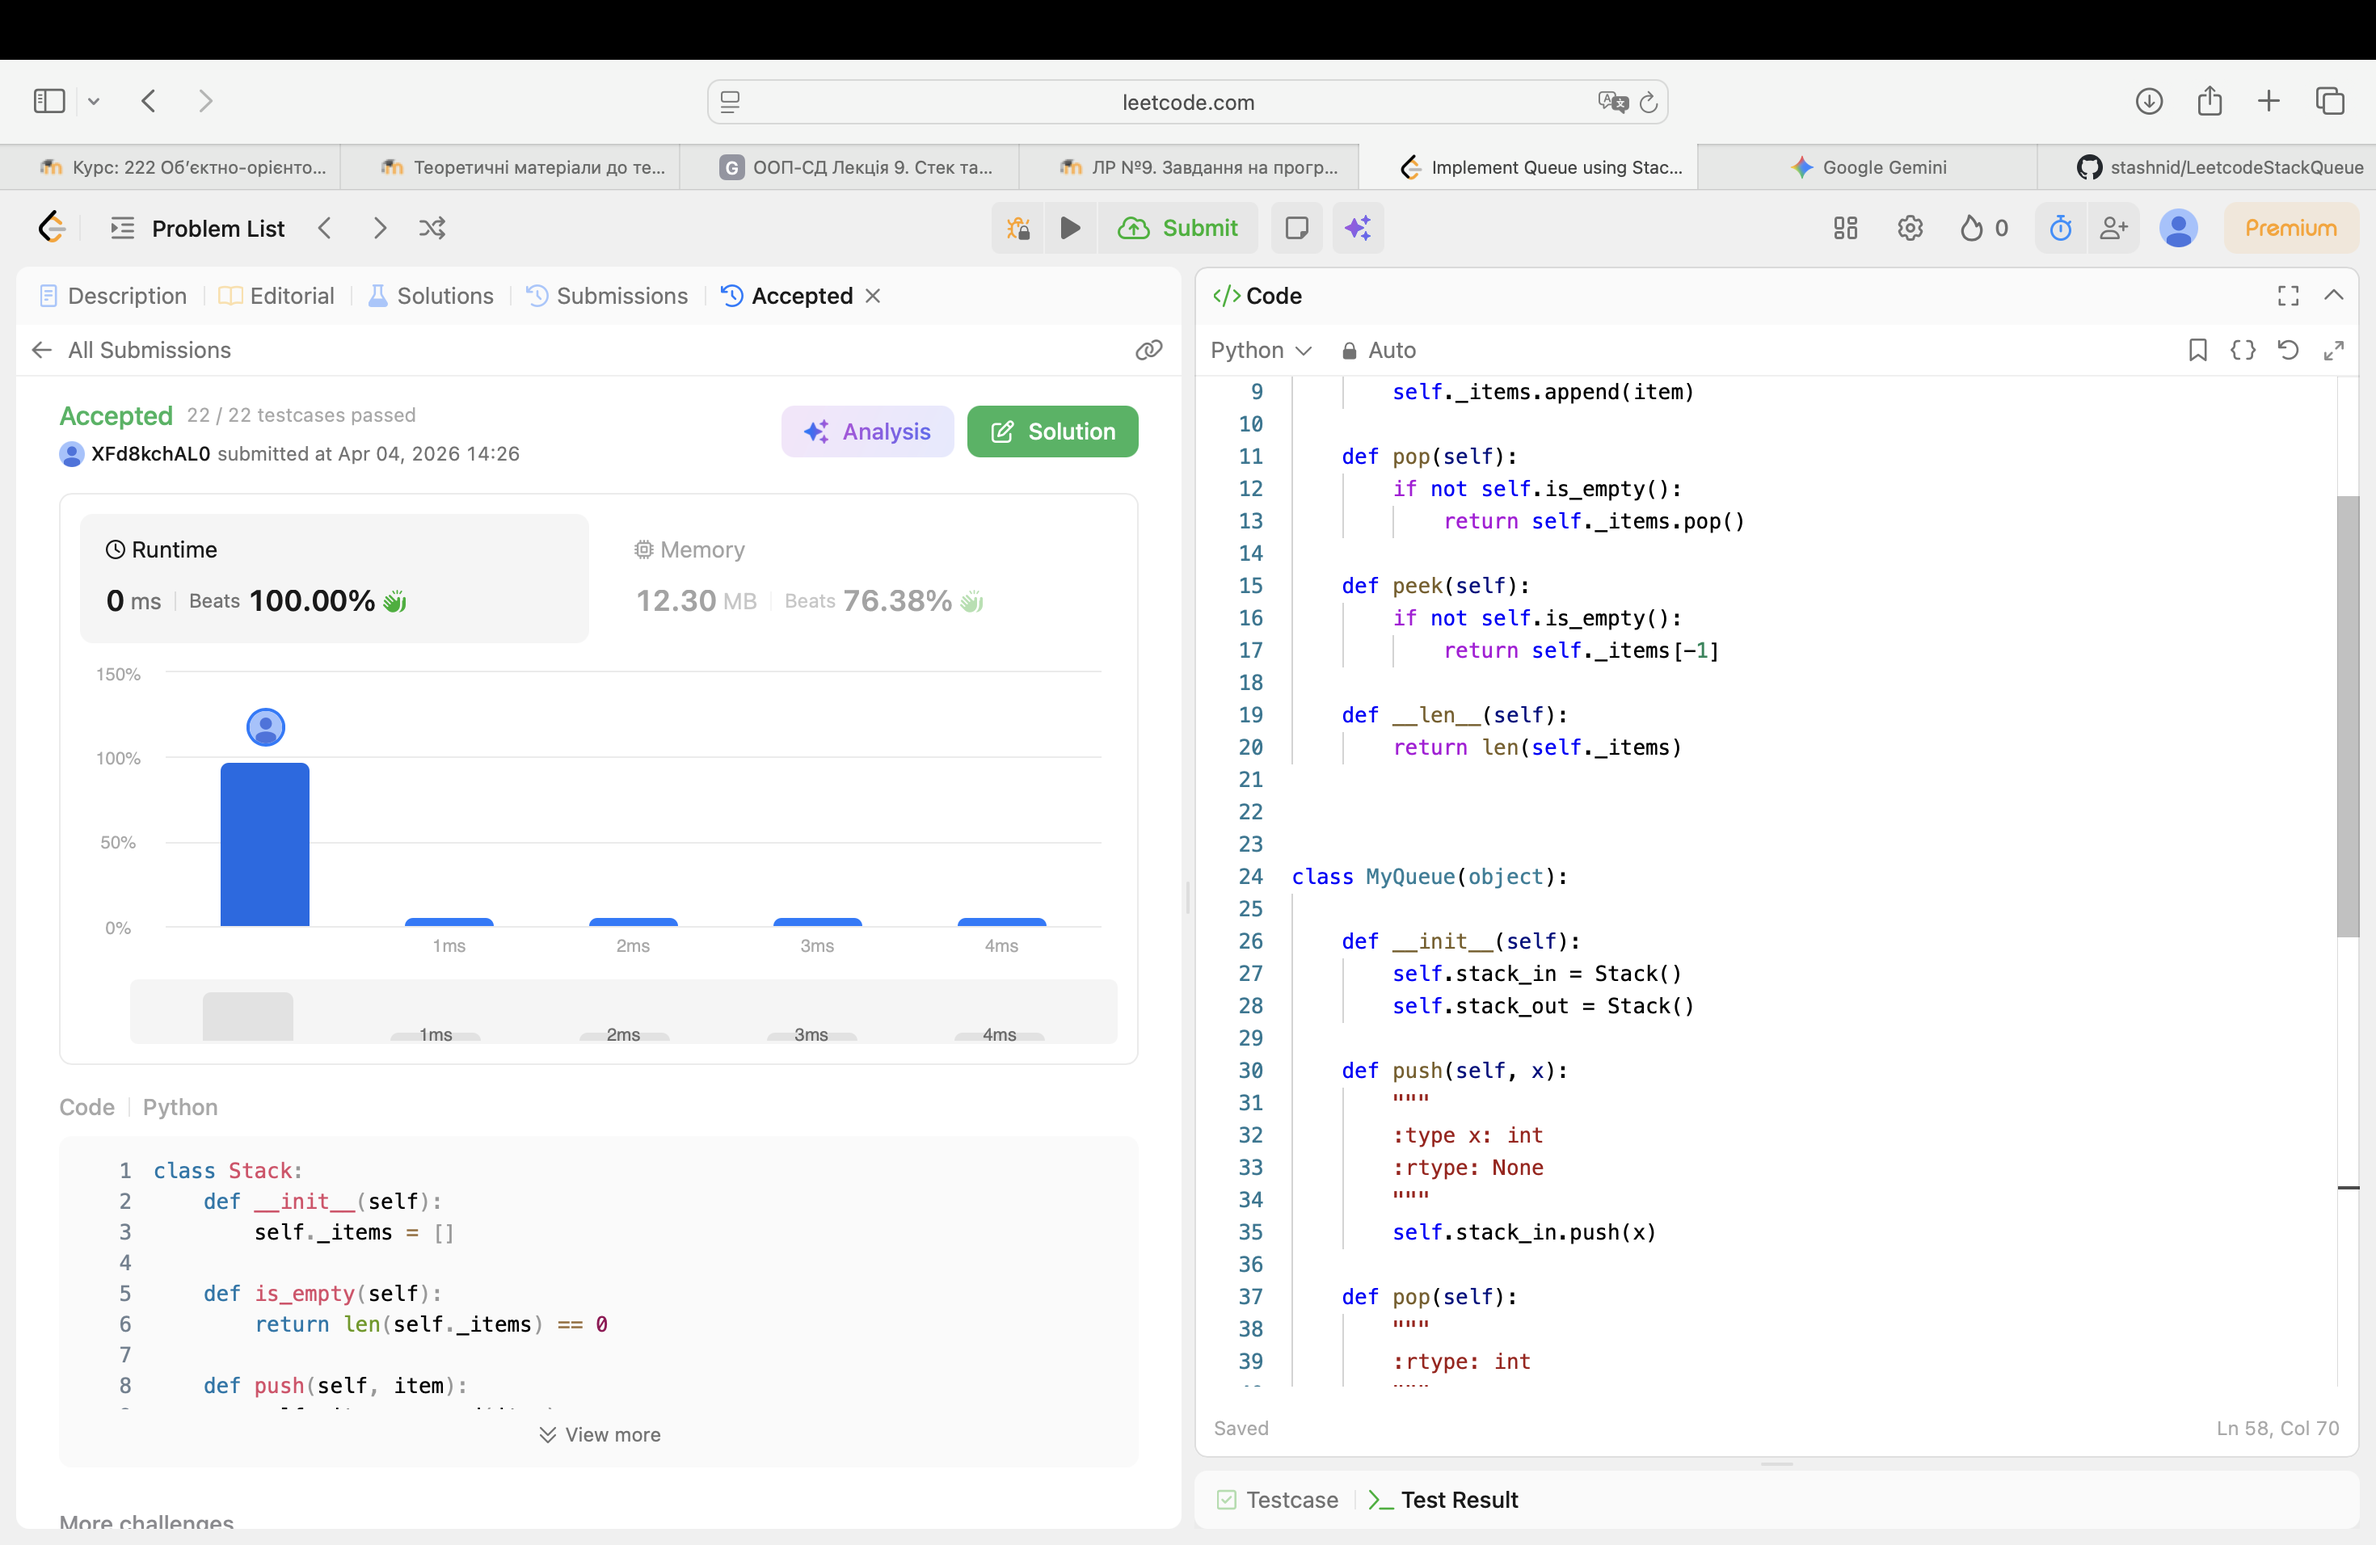
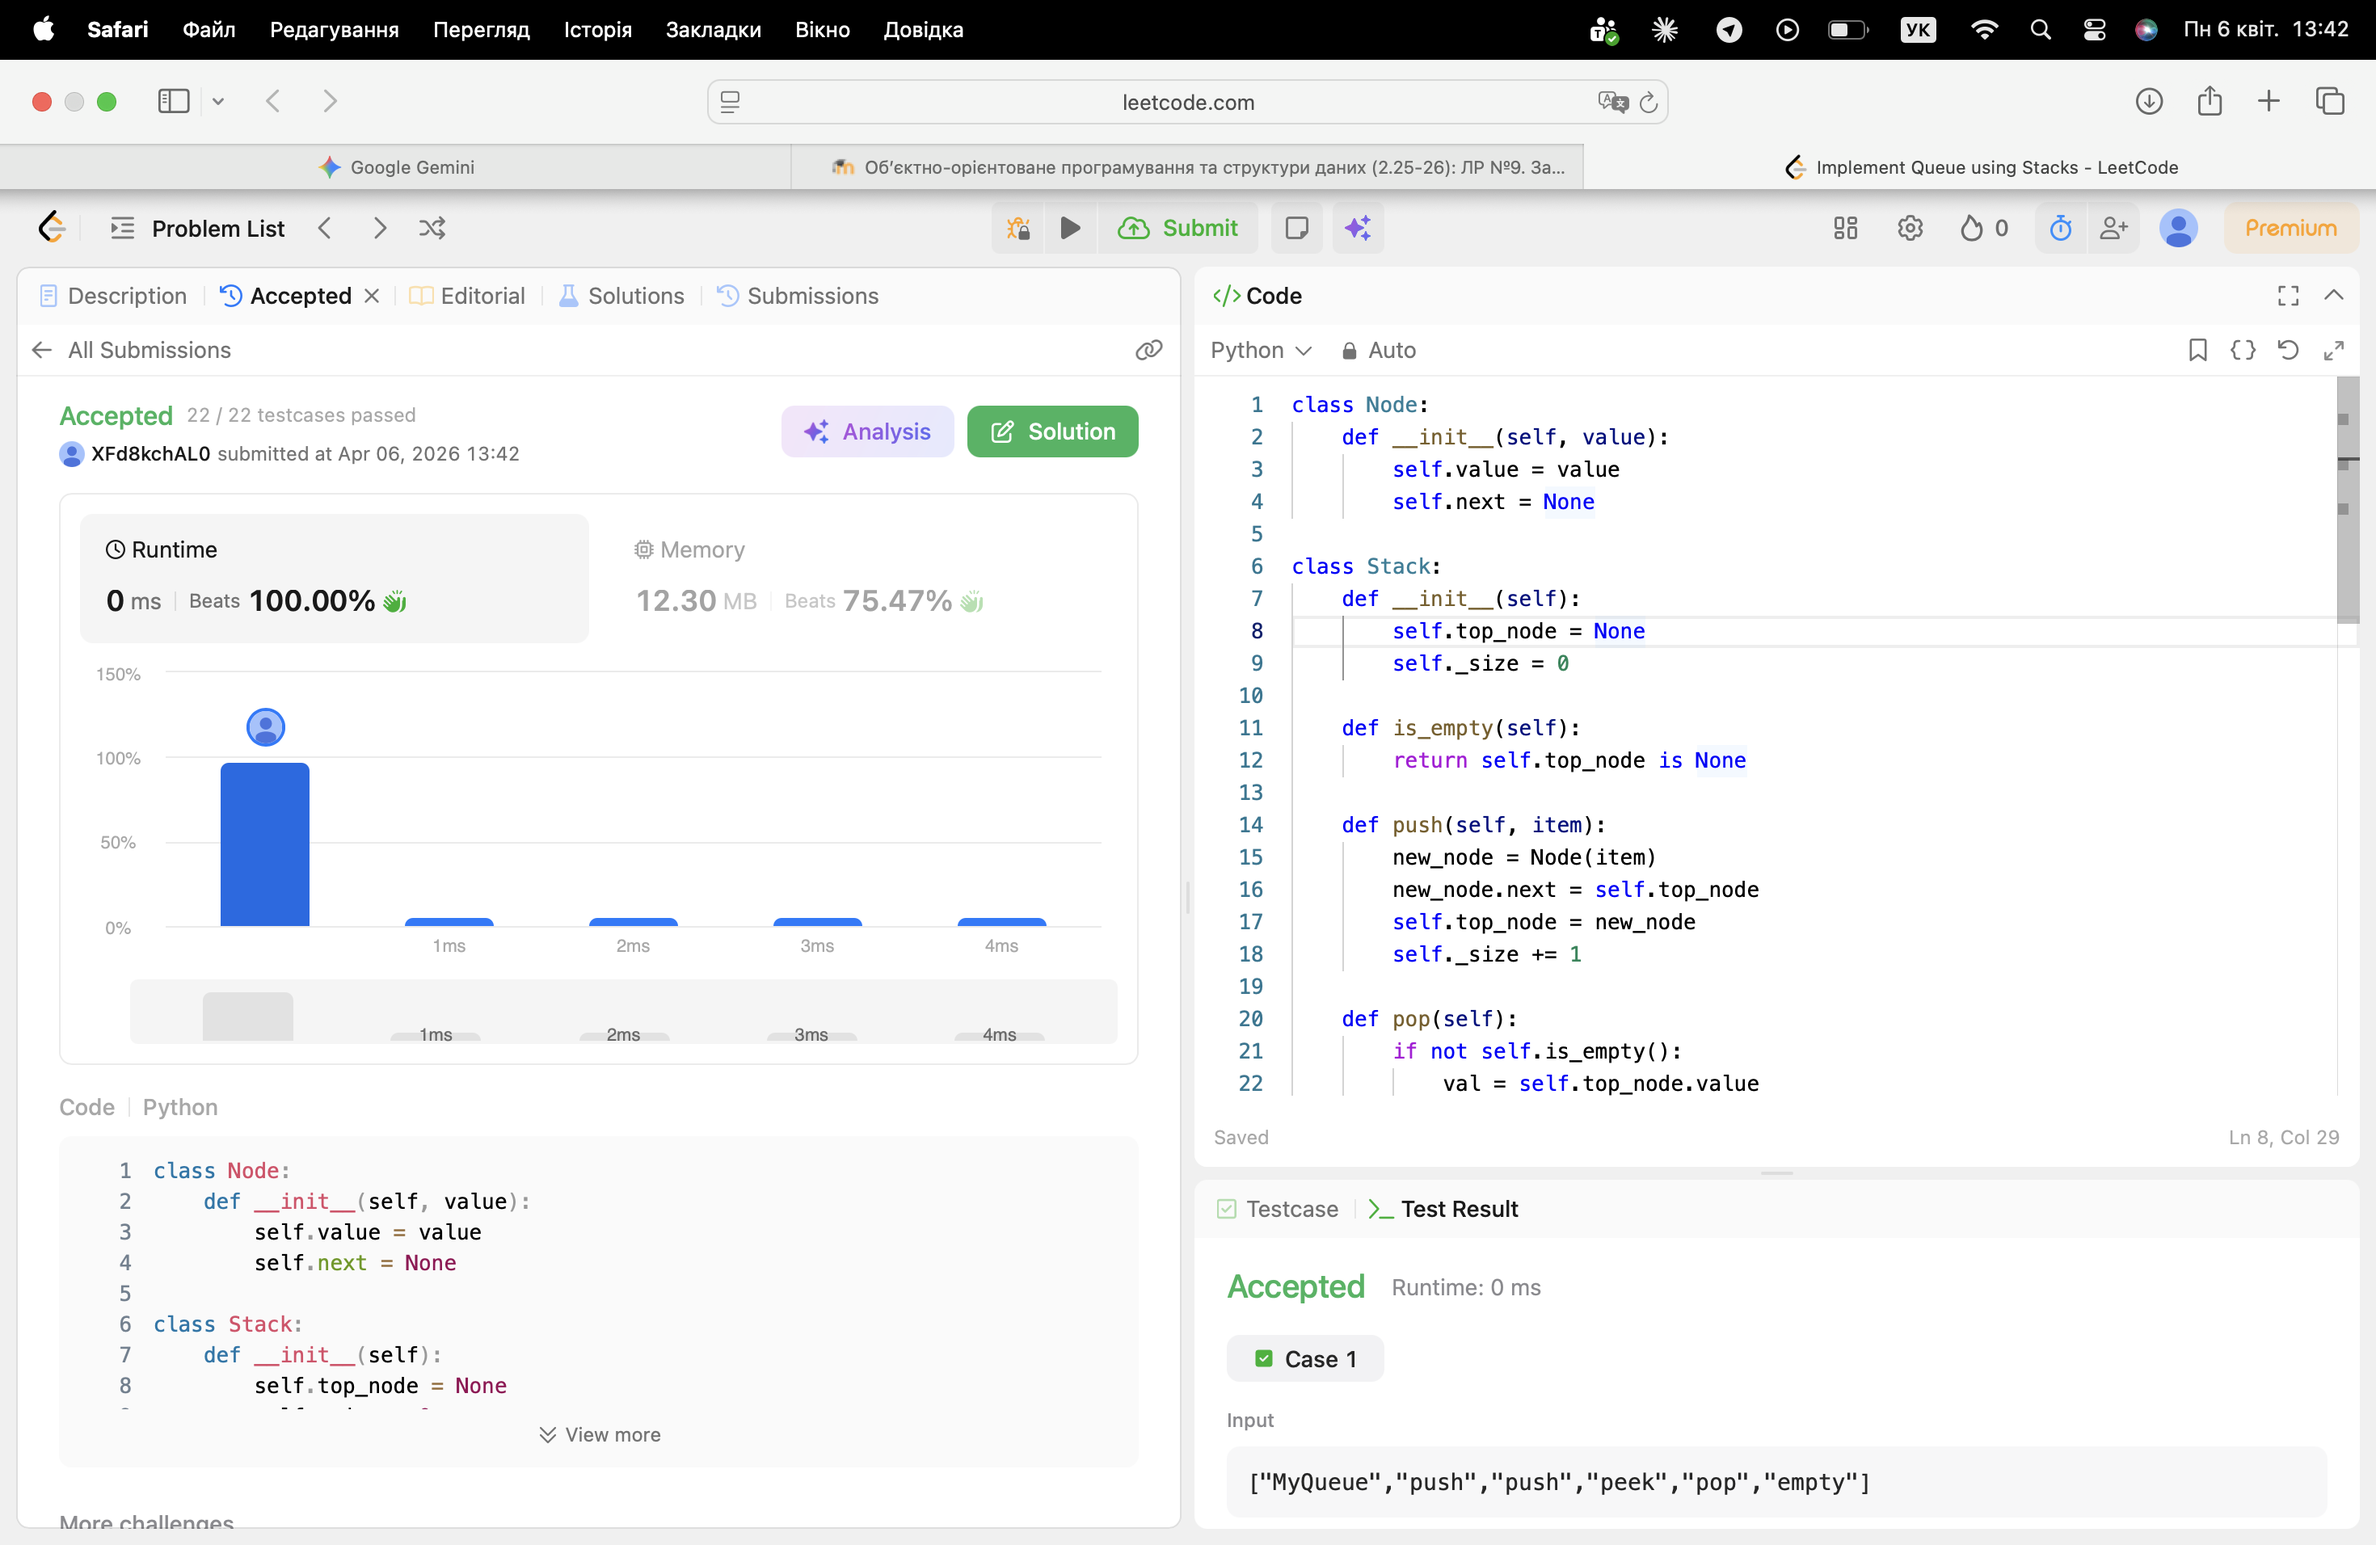
Change implementation logic to linked lists as requested by Bohdan

diff --git a/Implement_Stack_using_Queues /solution.py b/Implement_Stack_using_Queues /solution.py
@@ -1,57 +1,58 @@
-from collections import deque
+class Node:
+    def __init__(self, value):
+        self.value = value
+        self.next = None
 
 class Queue:
     def __init__(self):
-        self._items = deque()
+        self.front = None
+        self.rear = None
+        self._size = 0
 
     def is_empty(self):
-        return len(self._items) == 0
+        return self.front is None
 
     def add(self, item):
-        self._items.append(item)
+        new_node = Node(item)
+        if self.is_empty():
+            self.front = new_node
+        else:
+            self.rear.next = new_node
+        self.rear = new_node
+        self._size += 1
 
     def pop(self):
         if not self.is_empty():
-            return self._items.popleft()
+            val = self.front.value
+            self.front = self.front.next
+            if self.front is None:
+                self.rear = None
+            self._size -= 1
+            return val
 
     def peek(self):
         if not self.is_empty():
-            return self._items[0]
+            return self.front.value
 
     def __len__(self):
-        return len(self._items)
-
+        return self._size
 
 class MyStack(object):
-
     def __init__(self):
         self.q = Queue()
 
     def push(self, x):
-        """
-        :type x: int
-        :rtype: None
-        """
         self.q.add(x)
         for _ in range(len(self.q) - 1):
             self.q.add(self.q.pop())
 
     def pop(self):
-        """
-        :rtype: int
-        """
         return self.q.pop()
 
     def top(self):
-        """
-        :rtype: int
-        """
         return self.q.peek()
 
     def empty(self):
-        """
-        :rtype: bool
-        """
         return self.q.is_empty()
 
 # Your MyStack object will be instantiated and called as such:

diff --git a/Implement_Queue_using_Stacks/solution.py b/Implement_Queue_using_Stacks/solution.py
@@ -1,60 +1,55 @@
+class Node:
+    def __init__(self, value):
+        self.value = value
+        self.next = None
+
 class Stack:
     def __init__(self):
-        self._items = []
+        self.top_node = None
+        self._size = 0
 
     def is_empty(self):
-        return len(self._items) == 0
+        return self.top_node is None
 
     def push(self, item):
-        self._items.append(item)
+        new_node = Node(item)
+        new_node.next = self.top_node
+        self.top_node = new_node
+        self._size += 1
 
     def pop(self):
         if not self.is_empty():
-            return self._items.pop()
+            val = self.top_node.value
+            self.top_node = self.top_node.next
+            self._size -= 1
+            return val
 
     def peek(self):
         if not self.is_empty():
-            return self._items[-1]
+            return self.top_node.value
 
     def __len__(self):
-        return len(self._items)
-
-
+        return self._size
 
 class MyQueue(object):
-
     def __init__(self):
         self.stack_in = Stack()
         self.stack_out = Stack()
 
     def push(self, x):
-        """
-        :type x: int
-        :rtype: None
-        """
         self.stack_in.push(x)
 
     def pop(self):
-        """
-        :rtype: int
-        """
         self.peek()
         return self.stack_out.pop()
 
     def peek(self):
-        """
-        :rtype: int
-        """
         if self.stack_out.is_empty():
             while not self.stack_in.is_empty():
                 self.stack_out.push(self.stack_in.pop())
-        
         return self.stack_out.peek()
 
     def empty(self):
-        """
-        :rtype: bool
-        """
         return self.stack_in.is_empty() and self.stack_out.is_empty()
 
 
